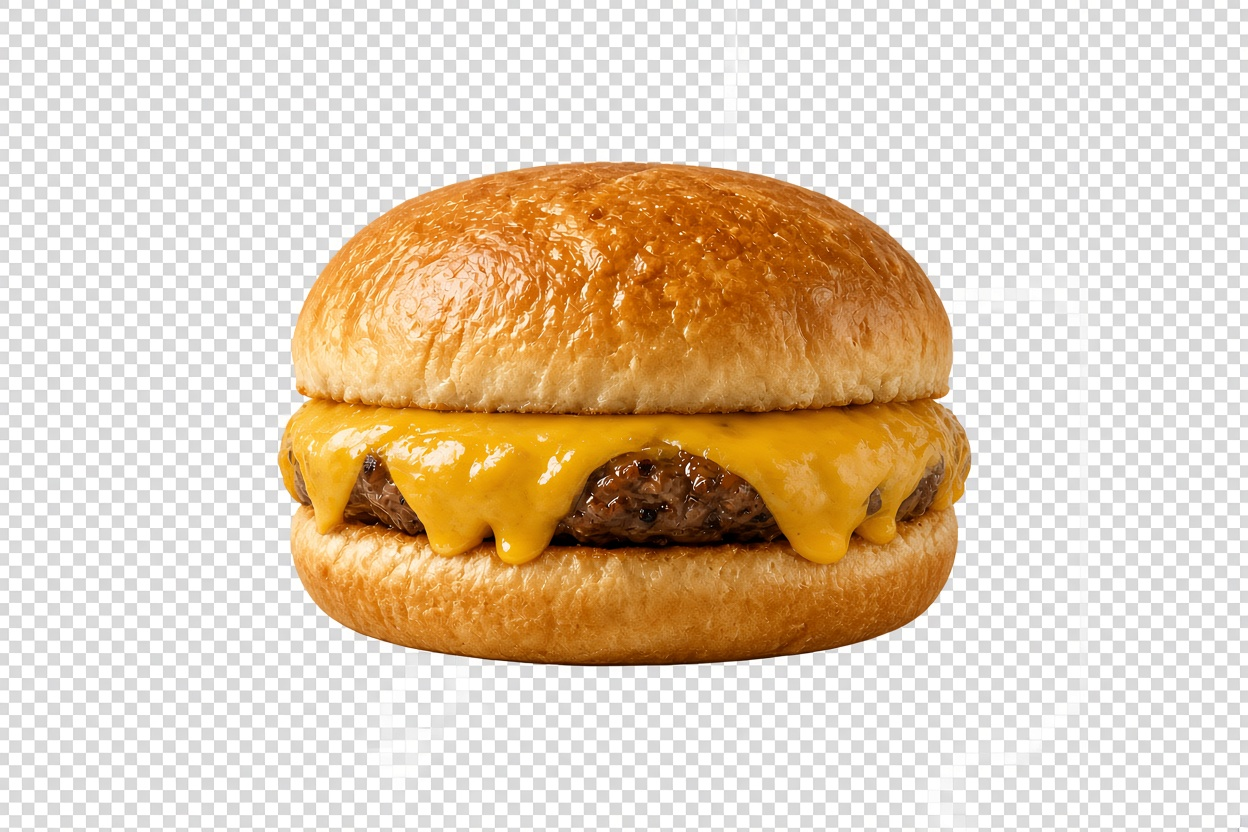
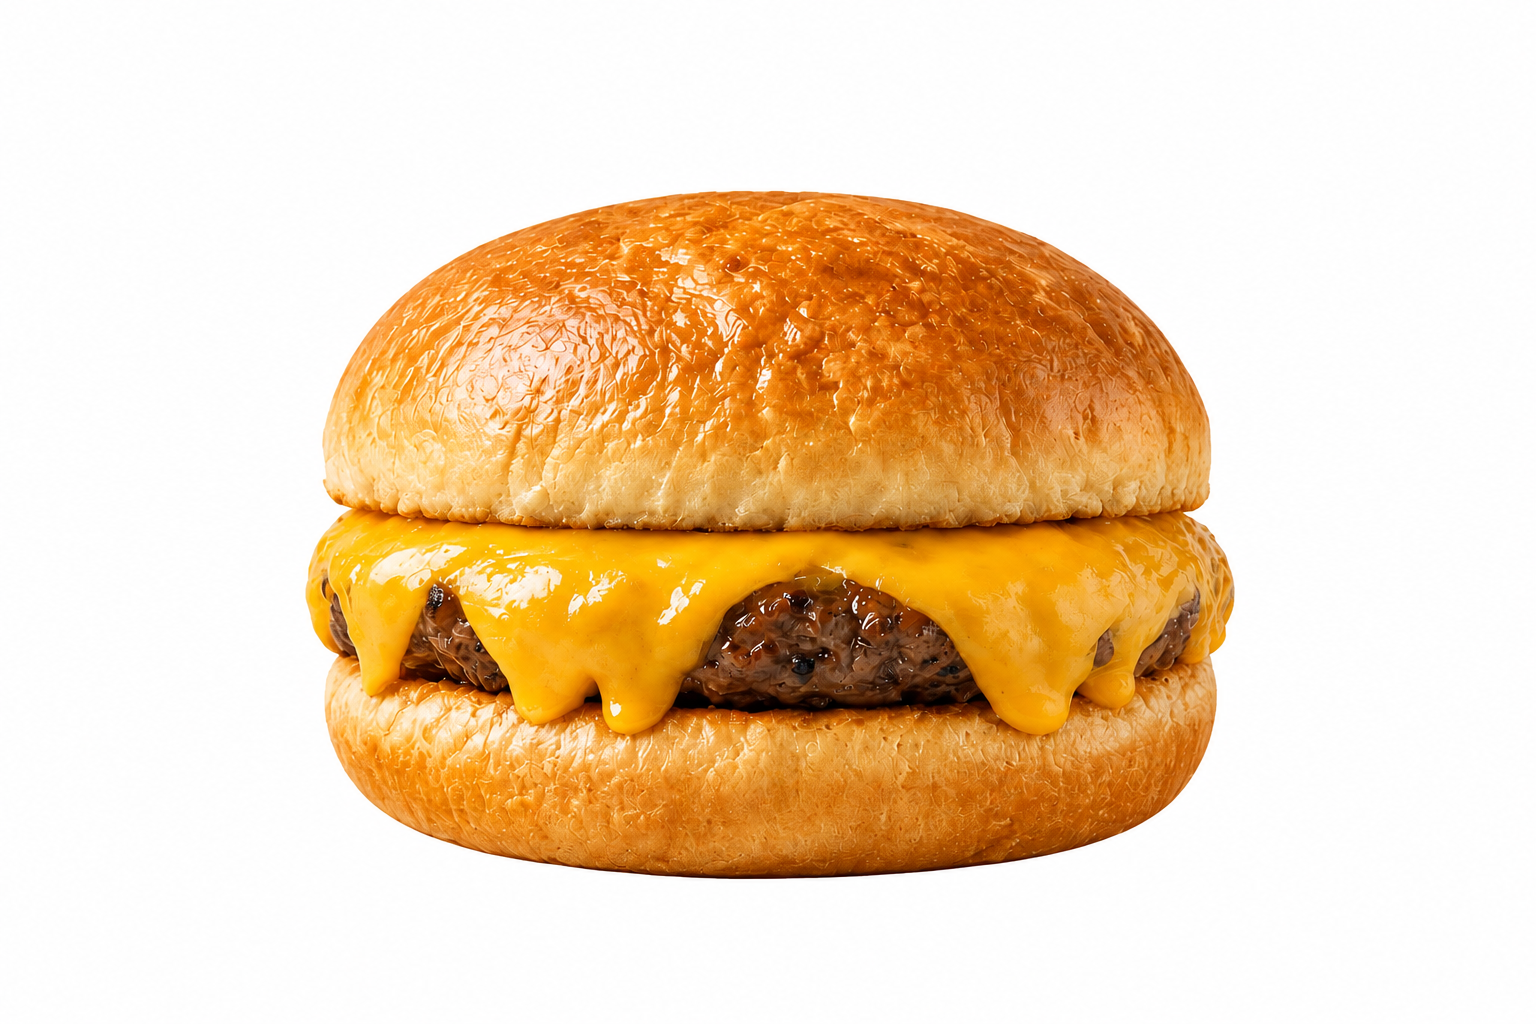
ahora se descuenta el stock cuando compras y puse las imgs con fondo blanco

diff --git a/Backend/index.js b/Backend/index.js
@@ -355,6 +355,19 @@ app.post("/confirmar-pedido", async function (req, res) {
       return res.status(400).send({ res: "Saldo insuficiente" });
     }
 
+    const stocks = await realizarQuery(
+      "SELECT id_producto, nombre, stock FROM Productos WHERE id_producto IN (" + marcas + ")",
+      ids
+    );
+
+    for (const p of stocks) {
+      if (carrito[p.id_producto] > p.stock) {
+        return res.status(400).send({
+          res: "No hay stock suficiente de " + p.nombre,
+        });
+      }
+    }
+
     const pedido = await realizarQuery(
       "INSERT INTO Pedidos (id_cliente, horario, total, estado) VALUES (?, CURTIME(), ?, 'En Preparacion')",
       [cliente[0].id_cliente, total]
@@ -367,6 +380,13 @@ app.post("/confirmar-pedido", async function (req, res) {
     await realizarQuery(
       "INSERT INTO DetallePedido (id_pedido, id_producto, cantidad) VALUES " + filas
     );
+
+    for (const p of productos) {
+      await realizarQuery(
+        "UPDATE Productos SET stock = stock - ? WHERE id_producto = ? AND stock >= ?",
+        [carrito[p.id_producto], p.id_producto, carrito[p.id_producto]]
+      );
+    }
 
     await realizarQuery(
       "UPDATE Clientes SET saldo = saldo - ? WHERE id_cliente = ?",
